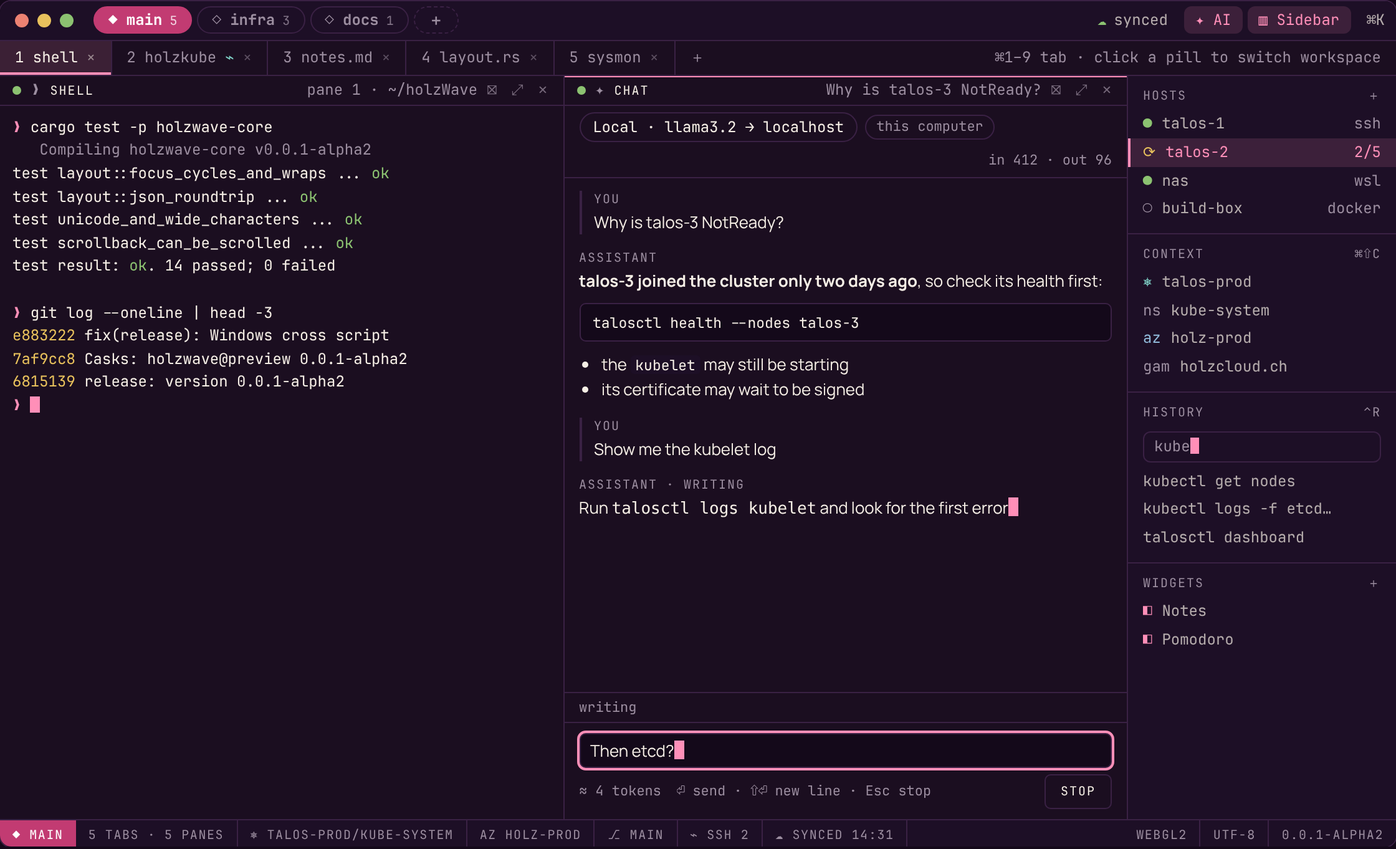
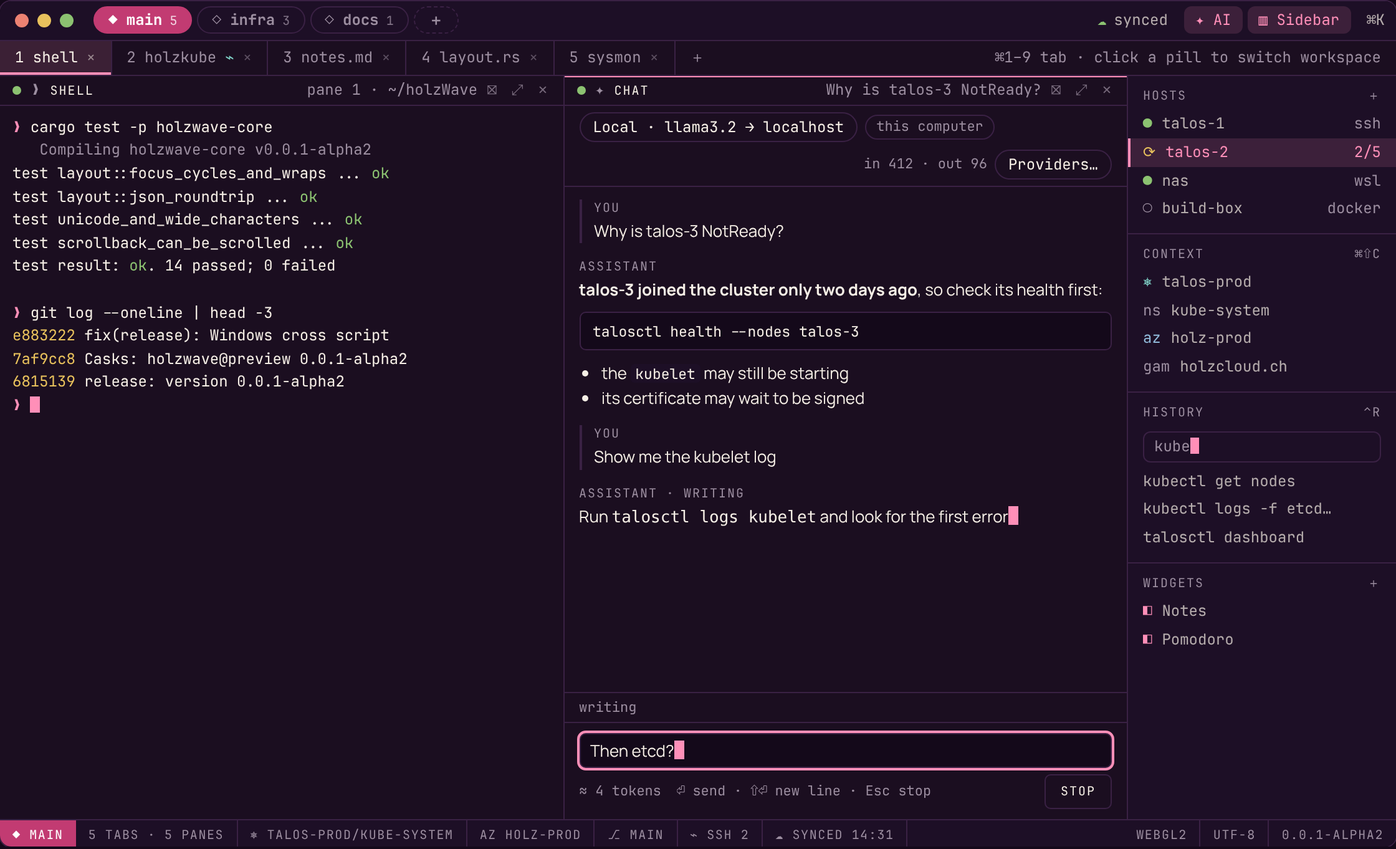
feat(07-23): on a narrow screen the providers dialog is the screen with 44 px targets and 16 px input text, contrast, motion and forced-colour modes reach it, and the design record, the render of the images and the narrow-screen rules were updated with the code
- aisettings.css: the narrow sheet, the forced-colour outlines; tests for sizes at 390 px and 1000 px and for the display modes
- haarlinie-voll.html: the view kiset, the phones row phones-aiset and the Providers button in the chat bar; render.cjs checks the new row
- docs/design.md embeds the two new images; ai-providers.png and ai-providers-phone.png are new, the three chat images are drawn again
- the dialog also shows the hint under the plain http box that the design record names

Claude-Session: https://claude.ai/code/session_0171pCJPS6UtJECiqDaWoqnY

Changed region(s): [[0.4062, 0.2159, 0.7812, 0.4934], [0.4062, 0.4934, 0.75, 0.6167], [0.625, 0.185, 0.8125, 0.2159]]

diff --git a/docs/design/haarlinie-voll.html b/docs/design/haarlinie-voll.html
@@ -133,6 +133,42 @@ p.lead{margin:6px 0 0;color:var(--ink2);max-width:70ch}
 .c-foot .keys{flex:1;overflow:hidden;text-overflow:ellipsis;white-space:nowrap}
 .c-send{display:inline-flex;align-items:center;justify-content:center;min-height:28px;padding:0 12px;border-radius:5px;font:500 10px var(--mono);letter-spacing:.1em;text-transform:uppercase}
 .c-send.stop{background:none;border-color:var(--edge);color:var(--ink)}
+/* AI providers dialog (docs/design.md 6.13): the box of the Settings dialog with its three groups, drawn with the variables above */
+.c-setup{display:inline-flex;align-items:center;height:24px;padding:0 10px;border:1px solid var(--edge);border-radius:999px;color:var(--ink);white-space:nowrap}
+.ap{display:flex;flex-direction:column;padding:10px 16px 8px;font:400 12px/1.4 var(--mono);color:var(--ink)}
+.ap-t{font-weight:700;margin:0}
+.ap-s{min-height:17px;color:var(--ink2);margin:0 0 2px}
+.ap-g{position:relative;border:1px solid var(--edge);border-radius:5px;padding:7px 10px 4px;margin:7px 0 0}
+.ap-leg{position:absolute;top:-8px;left:8px;padding:0 4px;background:var(--ground2);color:var(--ink3);line-height:14px}
+.ap-row{display:flex;align-items:center;gap:10px;height:22px;padding:0 8px;border-left:2px solid transparent;white-space:nowrap}
+.ap-row.on{background:var(--wash);border-left-color:var(--rose)}
+.ap-row .mk{width:12px;flex:none}
+.ap-m{color:var(--ink3);overflow:hidden;text-overflow:ellipsis}
+.ap-host{margin-left:auto;color:var(--ink2)}
+.ap-key{color:var(--ink3)}.ap-key.ok{color:var(--ok)}
+.ap-rev{color:var(--warn);text-decoration:underline}
+.ap-f{display:grid;grid-template-columns:96px 1fr;column-gap:8px;align-items:center;min-height:22px;margin:0 0 3px}
+.ap-l{color:var(--ink2)}
+.ap-v{border:1px solid var(--edge);border-radius:5px;padding:0 8px;background:var(--ground);overflow:hidden;white-space:nowrap;text-overflow:ellipsis}
+.ap-v.hole{color:var(--ink3)}
+.ap-h{grid-column:2;color:var(--ink3);font-size:10.5px;line-height:1.35}
+.ap-card{display:flex;gap:8px;border:1px solid var(--edge);border-left:2px solid var(--warn);border-radius:5px;padding:4px 8px;margin:2px 0 6px;font-size:11px;line-height:1.4}
+.ap-card .mk2{color:var(--warn);font-weight:700;flex:none}
+.ap-card b{display:block;font-size:12px}
+.ap-card .tx{color:var(--ink2)}
+.ap-acts{display:flex;justify-content:flex-end;gap:8px;margin:4px 0 0}
+.ph1 .c-setup{height:22px;padding:0 8px;font-size:9px}
+.ph1 .ap{padding:6px 8px;font-size:8px;line-height:1.35}
+.ph1 .ap-s{min-height:11px}
+.ph1 .ap-g{padding:6px 6px 3px;margin-top:8px}
+.ph1 .ap-leg{font-size:8px;line-height:12px;top:-7px}
+.ph1 .ap-row{height:auto;min-height:22px;flex-wrap:wrap;gap:0 5px;padding:1px 4px;font-size:8px}
+.ph1 .ap-row .ap-m{display:none}.ph1 .ap-host{margin-left:0}
+.ph1 .ap-f>*{display:block}.ph1 .ap-f .ap-h{margin-top:1px}
+.ph1 .ap-f{display:block;min-height:0;margin:0 0 4px}.ph1 .ap-v{display:block;min-height:22px;line-height:20px;padding:0 6px;margin-top:1px}
+.ph1 .ap-h{font-size:7.5px;margin-top:1px}
+.ph1 .ap-card{font-size:7.5px;padding:3px 5px}.ph1 .ap-card b{font-size:8px}
+.ph1 .ap .btn{min-height:22px;padding:2px 8px;border-radius:5px;font-size:8px}
 .c-sheet{position:absolute;left:0;right:0;bottom:0;background:var(--pane);border-top:1px solid var(--edge);border-radius:12px 12px 0 0;z-index:6;padding-bottom:6px}
 /* On the phone mock (200 px wide, about half of a 390 px phone) the targets are 22 px for 44 px and the text 8 px for 16 px */
 .ph1 .c-bar{min-height:28px;padding:3px 8px;gap:4px}
@@ -190,6 +226,10 @@ td:first-child{color:var(--ink);font-weight:600;white-space:nowrap}
   <h2>AI chat on a phone</h2>
   <p class="lead">The chat is the screen. Send, the chip, the picker rows and the composer are at least 44 px high and the composer text at least 16 px; the provider picker is a sheet from the bottom edge. Shown at the scale of the mock (about half).</p>
   <div class="phones" id="phones-chat"></div>
+
+  <h2>AI providers on a phone</h2>
+  <p class="lead">The dialog is the screen: full width and height, the fields stack, rows, options, inputs and buttons are at least 44 px high and input text at least 16 px. Left, the top of the dialog with the privacy switches and the list; right, the form scrolled to the key field, the key word, the card and Save. Shown at the scale of the mock (about half).</p>
+  <div class="phones" id="phones-aiset"></div>
 
   <h2>Features and where they live</h2>
   <div class="tblwrap"><table id="cov"></table></div>
@@ -290,9 +330,9 @@ function base(v){
   return `<div class="titlebar row">${wcL}
     <div class="ws on">◆ main <span class="n">5</span></div><div class="ws">◇ infra <span class="n">3</span></div><div class="ws">◇ docs <span class="n">1</span></div><div class="ws plus">＋</div>
     <span class="fill"></span>
-    <div class="tbtn ${v==='sync'?'on':''}"><span class="ok">☁</span> synced</div><div class="tbtn ${v==='ki'||v==='kipane'||v==='kistates'?'on':''}">✦ AI</div><div class="tbtn on">▥ Sidebar</div><div class="tbtn ${v==='palette'?'on':''}">⌘K</div>${wcR}</div>
+    <div class="tbtn ${v==='sync'?'on':''}"><span class="ok">☁</span> synced</div><div class="tbtn ${v==='ki'||v==='kipane'||v==='kistates'||v==='kiset'?'on':''}">✦ AI</div><div class="tbtn on">▥ Sidebar</div><div class="tbtn ${v==='palette'?'on':''}">⌘K</div>${wcR}</div>
   <div class="tabrow row">${tabs(v==='blocks'?1:0)}<span class="fill"></span><span class="dim" style="padding-right:12px">⌘1–9 tab · click a pill to switch workspace</span></div>
-  <div class="body">${v==='preview'?previewArea():v==='kipane'||v==='kistates'?chatArea(v):`<div class="area">
+  <div class="body">${v==='preview'?previewArea():v==='kipane'||v==='kistates'||v==='kiset'?chatArea(v):`<div class="area">
     ${P('','❯','shell','pane 1 · ~/holzWave',shell(v==='search'?'search':v==='copy'?'copy':''),{f:1,s:'grid-row:1/2'})}
     ${P('wa','⌁','holzkube','ssh · talos-2',ssh(1),{chip:'<span class="chip k">⎈ talos-prod</span>'})}
     ${P('in','✎','layout.rs','sftp · talos-1',editor)}
@@ -314,17 +354,29 @@ const cFoot=(count,btn)=>`<div class="c-foot"><span>${count}</span><span class="
 const cSend=`<span class="btn p c-send">Send</span>`,cStop=`<span class="btn c-send stop">Stop</span>`;
 const cRow=(on,name,model,host)=>`<div class="c-row ${on?'on':''}"><span class="mk">${on?'●':'○'}</span><span>${name}</span><span class="m2">${model}</span><span class="m2">${host}</span></div>`;
 const cBody={
- kipane:`<div class="c-chat"><div class="c-bar"><span class="c-chip">Local · llama3.2 → localhost</span><span class="c-where">this computer</span><span class="c-usage">in 412 · out 96</span></div>
+ kipane:`<div class="c-chat"><div class="c-bar"><span class="c-chip">Local · llama3.2 → localhost</span><span class="c-where">this computer</span><span class="c-usage">in 412 · out 96</span><span class="c-setup">Providers…</span></div>
  <div class="c-log">${cMsg('you','Why is talos-3 NotReady?',{u:1})}${cMsg('assistant','<p><b>talos-3 joined the cluster only two days ago</b>, so check its health first:</p><pre><code>talosctl health --nodes talos-3</code></pre><ul><li>the <code>kubelet</code> may still be starting</li><li>its certificate may wait to be signed</li></ul>',{md:1})}${cMsg('you','Show me the kubelet log',{u:1})}${cMsg('assistant','Run <code>talosctl logs kubelet</code> and look for the first error<span class="cur"></span>',{stat:'writing',run:1})}</div>
  <div class="c-status">writing</div>
  <div class="c-comp"><div class="c-in fo">Then etcd?<span class="cur"></span></div>${cFoot('≈ 4 tokens',cStop)}</div></div>`,
- kistates:`<div class="c-chat"><div class="c-bar"><span class="c-chip btn1">Cloud · large-model → api.example.org</span><span class="c-where leaves">cloud</span><span class="c-usage">in 1.2k · out 0</span></div>
+ kistates:`<div class="c-chat"><div class="c-bar"><span class="c-chip btn1">Cloud · large-model → api.example.org</span><span class="c-where leaves">cloud</span><span class="c-usage">in 1.2k · out 0</span><span class="c-setup">Providers…</span></div>
  <div class="c-pick" role="radiogroup">${cRow(0,'Local','llama3.2','localhost')}${cRow(1,'Cloud','large-model','api.example.org')}${cRow(0,'Office','qwen2.5','ollama.office.example')}</div>
  <div class="c-log">${cMsg('you','Why is talos-3 NotReady?',{u:1})}${cMsg('assistant','The node joined only two days ago and its kubelet may still be',{stat:'stopped'})}${cMsg('you','And what about the certificates?',{u:1})}<div class="c-end"><span class="er">!</span><span class="lbl">failed · overload</span><span class="tx">The provider is overloaded.</span></div></div>
  <div class="c-status">reply failed</div>
  <div class="c-comp"><div class="c-in fo">Here is the whole output of <span class="pre">talosctl health</span> from all three nodes, pasted:<br>talos-1 ok · talos-2 ok · talos-3 …<span class="cur"></span></div>${cFoot('≈ 1.2k tokens',cSend)}</div></div>`
 };
-function chatArea(v){return `<div class="area" style="grid-template-columns:1fr 1fr;grid-template-rows:1fr">${P('','❯','shell','pane 1 · ~/holzWave',shell(''),{s:'grid-row:1/2'})}${P('','✦','chat','Why is talos-3 NotReady?',cBody[v],{f:1,s:'grid-row:1/2'})}</div>`}
+function chatArea(v){return `<div class="area" style="grid-template-columns:1fr 1fr;grid-template-rows:1fr">${P('','❯','shell','pane 1 · ~/holzWave',shell(''),{s:'grid-row:1/2'})}${P('','✦','chat','Why is talos-3 NotReady?',cBody[v==='kiset'?'kipane':v],{f:1,s:'grid-row:1/2'})}</div>`}
+
+/* The AI providers dialog (docs/design.md 6.13): three groups (privacy, providers, the provider shown) and the buttons. The chosen
+   row has the wash and the 2 px bar, a row that waits for its review says so in words, the key field is empty and its state is a word. */
+const apG=(leg,body)=>`<div class="ap-g"><span class="ap-leg lbl">${leg}</span>${body}</div>`;
+const apF=(label,val,o={})=>`<div class="ap-f"><span class="ap-l">${label}</span><span class="ap-v ${o.cls||''}">${val}</span>${o.hint?`<span class="ap-h">${o.hint}</span>`:''}</div>`;
+const apRow=(on,name,meta,host,key,o={})=>`<div class="ap-row ${on?'on':''}"><span class="mk">${on?'●':'○'}</span><span>${name}</span><span class="ap-m">${meta}</span><span class="ap-host">${host}</span><span class="ap-key ${o.ok?'ok':''}">${key}</span>${o.review?'<span class="ap-rev">! review</span>':''}</div>`;
+const apPrivacy=apG('Privacy',`<div class="ap-f"><span class="ap-l">☐ Local only</span><span class="ap-h" style="grid-column:auto">Refuse every request whose destination is not this computer. A server on your local network counts as not this computer.</span></div>
+ <div class="ap-f"><span class="ap-l">Models on this computer</span><span>● Ask first &nbsp; ○ Do not ask</span><span class="ap-h">Whether a model on this computer needs your consent before it sees terminal text. A provider that is not on this computer always asks.</span></div>`);
+const apList=apG('Providers',`${apRow(0,'Local','Ollama · llama3.2','127.0.0.1:11434','no key')}${apRow(0,'Claude','Anthropic · claude-sonnet-5-5','api.anthropic.com','key saved',{ok:1})}${apRow(1,'Router','OpenRouter · model-name','openrouter.ai','key saved',{ok:1,review:1})}<div class="row" style="padding:3px 0 2px"><span class="btn">Add provider</span></div>`);
+const apCard=`<div class="ap-card"><span class="mk2">!</span><div class="fill"><b>Gateway: openrouter.ai</b><span class="tx">A gateway relays your prompts to other providers and may keep a log of them. holzWave sends nothing to openrouter.ai until you allow it. holzWave asks OpenRouter not to use providers that keep your data. OpenRouter can still log what it receives.</span><div style="margin-top:4px"><span class="btn" style="border-color:var(--warn);color:var(--ink)">Allow openrouter.ai</span></div></div></div>`;
+const apForm=apG('Provider',`${apF('Name','Router')}${apF('Type','● OpenRouter',{hint:'The type of a saved provider cannot change. Add a new provider for another type.'})}${apF('Address','https://openrouter.ai/api/v1',{hint:'Leave empty to use the address of this type.'})}<div class="ap-f"><span style="grid-column:1/3">☐ Plain http on my local network</span><span class="ap-h" style="grid-column:1/3">Only for a server on your own network. Never for the internet.</span></div>${apF('Model','model-name')}${apF('API key','Enter a new key to replace it',{cls:'hole',hint:'<span class="ok">key saved</span> · The key is stored in the system keychain. It is never shown again; enter a new one to replace it.'})}${apCard}`);
+const apBox=(status)=>`<div class="ap"><div class="ap-t">AI providers</div><div class="ap-s">${status}</div>${apPrivacy}${apList}${apForm}<div class="ap-acts"><span class="btn">Remove provider</span><span class="btn p">Save</span><span class="btn">Close</span></div></div>`;
 
 const ovl={
  history:`<div class="scrim"></div><div class="ov float" style="left:300px;top:70px;width:560px;border-radius:16px"><div class="row" style="padding:10px 14px;border-bottom:1px solid var(--edge);gap:8px"><span class="ro">⌕</span>kgp<span class="cur"></span><span class="kbd" style="margin-left:auto">esc</span></div>
@@ -364,6 +416,7 @@ const ovl={
   <div class="field"><span class="dim">Last sync</span><span>14:31 · 3 files</span></div><div class="field"><span class="dim">Encryption</span><span class="ok">end-to-end · passphrase</span></div><div class="field"><span class="dim">Conflicts</span><span class="wa">1 · backup kept</span></div>
   <div class="grp lbl" style="padding:8px 0 2px">Synced</div><div class="dim">Settings · themes · hosts · layouts · history</div><div class="dim">Secrets only encrypted</div>
   <div class="row" style="gap:8px;margin-top:12px"><span class="btn p">Sync now</span><span class="btn">View conflict</span></div></div>`,
+ kiset:`<div class="scrim"></div><div class="ov float" style="left:220px;top:8px;width:680px;height:664px;overflow:hidden;border-radius:8px">${apBox('Saved.')}</div>`,
  keys:'KEYS',
  drag:`<div class="drop" style="left:0;top:92px;width:520px;height:270px;opacity:.9">drop here: left of shell</div><div class="drop" style="right:216px;top:60px;width:270px;height:60px;border-color:var(--wood);color:var(--wood);background:rgba(201,139,79,.14)">→ as new tab</div><div class="ov float" style="left:560px;top:420px;padding:6px 14px;border-color:var(--rose);color:var(--rose);transform:rotate(-2deg);font-weight:700">⠿ notes.md</div>
   <div class="ov float" style="left:260px;top:390px;padding:4px 10px;color:var(--ink2)">Drag out of the window: new window. Wayland: palette “Move pane to new window”.</div>`
@@ -383,6 +436,7 @@ const views=[
  ['ki','AI sidebar','The sidebar form of the chat: it replaces the sidebar when opened. This column and its consent card are drawn ahead of the work that builds them; the chat pane (the next views) is the first built form. Terminal content is sent only with explicit consent per pane.'],
  ['kipane','AI chat','The chat as a pane beside the shell, opened by the ✦ AI button. The bar says where the next request goes (provider, model, host) and, once a turn has told it, the place. A finished reply is Markdown, the reply that streams is plain text with its status word, and Stop takes the place of Send.'],
  ['kistates','AI chat states','The provider picker (a radio group, the chosen row marked), a reply that was stopped, a turn that failed with its class and the core’s line, and a long draft with the core’s token estimate. Every state has a word besides its colour.'],
+ ['kiset','AI providers','The dialog that the chat bar button Providers… opens (also the palette entry AI providers… and a button in Settings): the two privacy switches, the list of providers with the key state in words, the form of the chosen provider with its write-only key field, and the card that a gateway or a server of your own shows before its first use. Nothing is probed; the Allow button is the only way to allow an address.'],
  ['drag','Drag','Reorder panes by drag and drop, drop them as a tab, drag them out into a new window. On Wayland use the palette.']
 ];
 const vb=$('#views');let cur='alltag';
@@ -414,11 +468,17 @@ talos-1 <span class="ok">Ready</span>
 talos-3 <span class="wa">NotReady</span>`,`<div class="acc"><span>esc</span><span>tab</span><span>ctrl</span><span>alt</span><span>↑</span><span>↓</span></div><div class="bn"><span>shell</span><span class="on">kube</span><span>notes</span><span>＋</span></div>`);
 
 /* AI chat on a phone: the chat, and the same chat with the provider sheet raised */
-const cPhone=(over)=>ph('<span class="ro">✦</span> chat <span class="dim">· talos-3</span>',`<div class="c-chat"><div class="c-bar"><span class="c-chip btn1">Cloud · large-model</span><span class="c-where leaves">cloud</span></div>
+const cPhone=(over)=>ph('<span class="ro">✦</span> chat <span class="dim">· talos-3</span>',`<div class="c-chat"><div class="c-bar"><span class="c-chip btn1">Cloud · large-model</span><span class="c-where leaves">cloud</span><span class="c-setup">Providers…</span></div>
  <div class="c-log">${cMsg('you','Why is talos-3 NotReady?',{u:1})}${cMsg('assistant','<p><b>talos-3 joined two days ago</b>, check its health:</p><pre><code>talosctl health</code></pre>',{md:1})}${cMsg('you','Show me the kubelet log',{u:1})}</div>
  <div class="c-status">reply finished</div>
  <div class="c-comp"><div class="c-in">Ask a question<span class="cur"></span></div><div class="c-foot"><span class="keys">⏎ send</span>${cSend}</div></div></div>`,'',{raw:1,over});
 $('#phones-chat').innerHTML=cPhone('')+cPhone(`<div class="scrim" style="border-radius:22px"></div><div class="c-sheet float" style="border-radius:12px 12px 0 0">${cRow(0,'Local','llama3.2','')}${cRow(1,'Cloud','large-model','')}${cRow(0,'Office','qwen2.5','')}</div>`);
+
+/* AI providers on a phone: the dialog is the screen. The top of it, and the form scrolled to the key, the card and Save. */
+const aPhone=(top,body)=>ph(top,`<div class="ap"><div class="ap-t">AI providers</div>${body}</div>`,'',{raw:1});
+$('#phones-aiset').innerHTML=
+ aPhone('<span class="ro">✦</span> chat <span class="dim">· talos-3</span>',`<div class="ap-s">Saved.</div>${apG('Privacy',`<div class="ap-f"><span class="ap-l">☐ Local only</span><span class="ap-h">Refuse every request whose destination is not this computer. A server on your local network counts as not this computer.</span></div><div class="ap-f"><span class="ap-l">Models on this computer</span><span>● Ask first &nbsp; ○ Do not ask</span></div>`)}${apG('Providers',`${apRow(0,'Local','Ollama','127.0.0.1','no key')}${apRow(0,'Claude','Anthropic','api.anthropic.com','key saved',{ok:1})}${apRow(1,'Router','OpenRouter','openrouter.ai','key saved',{ok:1,review:1})}<div class="row" style="padding:3px 0 2px"><span class="btn">Add provider</span></div>`)}`)
++aPhone('<span class="ro">✦</span> chat <span class="dim">· talos-3</span>',`${apG('Provider',`${apF('API key','Enter a new key to replace it',{cls:'hole',hint:'<span class="ok">key saved</span> · Never shown again; enter a new one to replace it.'})}${apCard}`)}<div class="ap-acts"><span class="btn">Remove provider</span><span class="btn p">Save</span></div><div class="ap-acts"><span class="btn">Close</span></div>`);
 
 /* Feature list */
 const B='<span class="ph-tag built">built</span>',pl=n=>`<span class="ph-tag">Phase ${n}</span>`;
@@ -430,7 +490,7 @@ const rows=[
 ['SSH with reconnect','Pane header, sidebar, connections',pl(3)],['WSL, Docker','Connections, block picker',pl(3)],['Keychain','Connections',pl(3)],
 ['Nextcloud sync, end-to-end','Title bar ☁, sync popover, settings',pl('3b')],
 ['File previews (Markdown, image, video, PDF)','Previews view and Daily',pl(4)],['Editor with SFTP','Editor block',pl(4)],
-['wsh CLI','Open blocks and set titles from the shell',pl(5)],['Widgets sidebar','Right, collapsible',pl(6)],['History with fuzzy search','Sidebar, ⌃R',pl(6)],['System monitor','System block',pl(6)],['AI chat in a pane','Title bar ✦ AI, palette, a pane beside the focused one',B],['AI chat in the sidebar','Title bar ✦, replaces the sidebar',pl(6)],
+['wsh CLI','Open blocks and set titles from the shell',pl(5)],['Widgets sidebar','Right, collapsible',pl(6)],['History with fuzzy search','Sidebar, ⌃R',pl(6)],['System monitor','System block',pl(6)],['AI chat in a pane','Title bar ✦ AI, palette, a pane beside the focused one',B],['AI providers and keys','Chat bar › Providers…, palette, Settings',B],['AI chat in the sidebar','Title bar ✦, replaces the sidebar',pl(6)],
 ['Kubernetes, Talos, Azure, GAM7','Context in sidebar and status line, blocks',pl('6b')],['iOS and Android','One pane per screen, sheet, key row',pl(7)]
 ];
 $('#cov').innerHTML='<tr><th>Feature</th><th>Where</th><th>Status</th></tr>'+rows.map(r=>`<tr><td>${r[0]}</td><td>${r[1]}</td><td>${r[2]}</td></tr>`).join('');

diff --git a/app/src/aisettings.css b/app/src/aisettings.css
@@ -52,7 +52,7 @@
                             margin: 0 0 .5rem; }
 .ai-settings .aiset-field > label { color: var(--hw-ink-2); }
 .ai-settings .aiset-field > .aiset-hint { grid-column: 2; margin: .167rem 0 0; }
-.ai-settings .aiset-check { grid-template-columns: 1rem minmax(0, 1fr); }
+.ai-settings .aiset-check { grid-template-columns: 1rem minmax(0, 1fr); min-height: max(28px, calc(28rem / 12)); }
 .ai-settings .aiset-check > label { color: var(--hw-ink); }
 .ai-settings .aiset-choice { min-width: 0; margin: 0 0 .5rem; padding: 0; border: 0; }
 .ai-settings .aiset-choice > legend { padding: 0; color: var(--hw-ink-2); }
@@ -96,6 +96,37 @@
 .ai-settings .aiset-disclosure-body { margin: 0 0 .5rem; color: var(--hw-ink-2); overflow-wrap: anywhere; }
 .ai-settings button.aiset-allow { max-width: 100%; border-color: var(--hw-warn); color: var(--hw-ink); text-transform: none;
                                   overflow-wrap: anywhere; }
+
+/* ---- narrow screens: 640 px and narrower ------------------------------------------------------------------------------ */
+
+/* The dialog is the screen: the whole window, no radius and no shadow. The fields stack, every target is at least 44 px high
+   and the text of a field at least 16 px (a smaller one makes a phone zoom into the field). Outside this block the same
+   targets keep their 28 px minimum. */
+@media (max-width: 640px) {
+  .dlg.ai-settings { width: 100vw; height: 100vh; height: 100dvh; max-height: 100vh; max-height: 100dvh; border: 0; border-radius: 0;
+                     box-shadow: none; }
+  .ai-settings .aiset-row, .ai-settings .aiset-option, .ai-settings .aiset-check, .ai-settings button,
+  .ai-settings input[type="text"], .ai-settings input[type="password"] { min-height: max(44px, calc(44rem / 12)); }
+  .ai-settings input[type="text"], .ai-settings input[type="password"] { font-size: max(16px, 1rem); }
+  .ai-settings input[type="radio"], .ai-settings input[type="checkbox"] { width: 1.25rem; height: 1.25rem; }
+  .ai-settings .aiset-field { grid-template-columns: minmax(0, 1fr); row-gap: .167rem; }
+  .ai-settings .aiset-field > .aiset-hint, .ai-settings .aiset-error { grid-column: 1; }
+  .ai-settings .aiset-check { grid-template-columns: 1.25rem minmax(0, 1fr); align-items: center; }
+  .ai-settings .aiset-check > .aiset-hint { grid-column: 2; }
+  .ai-settings .aiset-row { flex-wrap: wrap; row-gap: 0; padding-top: .333rem; padding-bottom: .333rem; }
+  .ai-settings .aiset-host { margin-left: 0; }
+  .ai-settings .aiset-keyrow { flex-wrap: wrap; }
+  .ai-settings .aiset-form-actions { flex-wrap: wrap; }
+}
+
+/* ---- forced colours: system colours outline the chosen row, the card and a key that needs attention ---------------------- */
+
+@media (forced-colors: active) {
+  :root .ai-settings .aiset-row[data-chosen="true"] { outline: 2px solid Highlight; outline-offset: -2px; }
+  :root .ai-settings .aiset-disclosure { outline: 2px solid CanvasText; outline-offset: -2px; }
+  :root .ai-settings .aiset-keystate[data-tone="warn"], :root .ai-settings .aiset-gateway-state[data-tone="warn"],
+  :root .ai-settings .aiset-key[data-tone="warn"] { outline: 2px solid Highlight; outline-offset: 2px; }
+}
 
 /* A hidden part is hidden, whatever display its class gives it: this rule comes last on purpose. */
 .ai-settings [hidden] { display: none; }

diff --git a/app/src/aisettings.ts b/app/src/aisettings.ts
@@ -269,6 +269,10 @@ async function show(focus: string | undefined): Promise<void> {
     const lanLabel = el("label", "", lanWrap);
     lanLabel.htmlFor = "aiset-lan";
     lanLabel.textContent = "Plain http on my local network";
+    const lanHint = el("p", "aiset-hint", lanWrap);
+    lanHint.id = "aiset-lan-hint";
+    lanHint.textContent = "Only for a server on your own network. Never for the internet.";
+    lanInput.setAttribute("aria-describedby", lanHint.id);
 
     const modelWrap = field("aiset-model", "Model");
     const modelInput = el("input", "", modelWrap);

diff --git a/docs/design.md b/docs/design.md
@@ -216,6 +216,7 @@ Each view is a state of the same window. Overlays use the 24 px radius and the s
 | Previews | ![](design/previews.png) | file browser (local and SFTP) with image, PDF and video panes, see 6.5 |
 | Sync | ![](design/sync.png) | Nextcloud endpoint, last sync, end-to-end encryption, conflicts with their backup |
 | AI chat | ![](design/ai-chat-pane.png) ![](design/ai-chat-states.png) | the chat as a pane beside the shell (6.12): the bar with the provider chip and the place word, Markdown replies, a reply that streams with `Stop`; then the picker, a stopped reply, a failed turn and a long draft |
+| AI providers | ![](design/ai-providers.png) | the dialog for providers, keys, the two privacy settings and the gateway disclosure (6.13) |
 | AI chat (sidebar) | ![](design/ai-chat.png) | the column form, which replaces the sidebar; the column and its consent card are drawn ahead of the work that builds them |
 | Drag | ![](design/drag.png) | drop zones on the outer quarter of a pane, a tab drop zone, tear-off into a new window |
 
@@ -251,7 +252,7 @@ the bottom bar holds the tabs of the shown workspace. Tokens are the ones above;
 
 ![Phone](design/7-phone.png)
 
-A chat pane on a phone is the screen, with a sheet from the bottom edge for the provider (6.12).
+A chat pane on a phone is the screen, with a sheet from the bottom edge for the provider (6.12). The providers dialog (6.13) on a phone is the screen too, and the sheet rules of the chat apply to its targets and its text.
 
 ### 6.7 Platforms
 
@@ -482,6 +483,8 @@ list says "No provider yet."
 - The buttons `Save` (solid `--hw-rose-deep`, `--hw-on-accent` text) and `Remove provider` (hairline); the first click on
   `Remove provider` turns it into `Click again to remove`, and any other action disarms it.
 
+![AI providers](design/ai-providers.png)
+
 **Keys.** A key is typed once and goes to the keychain in one call; it is never shown, echoed, kept or put into a
 provider. The field has no show toggle. The state of a key is one word, with the colour as the second cue:
 
@@ -521,6 +524,8 @@ word never appears in this dialog: where a request goes is told by the chat afte
 **Narrow screens (640 px and narrower).** The dialog is the screen: full width and height, no radius, no shadow. The
 fields stack, and the rows, options, inputs and buttons are at least 44 px high; input text is at least 16 px. The rules
 of the chat sheet (6.12) apply.
+
+![AI providers on a phone](design/ai-providers-phone.png)
 
 **Accessibility.** Every control has a visible label; a field with a refusal is `aria-invalid` and `aria-describedby` its
 error; the status line is `role="status"`; the list and the option groups are radio groups. Nothing moves, so
